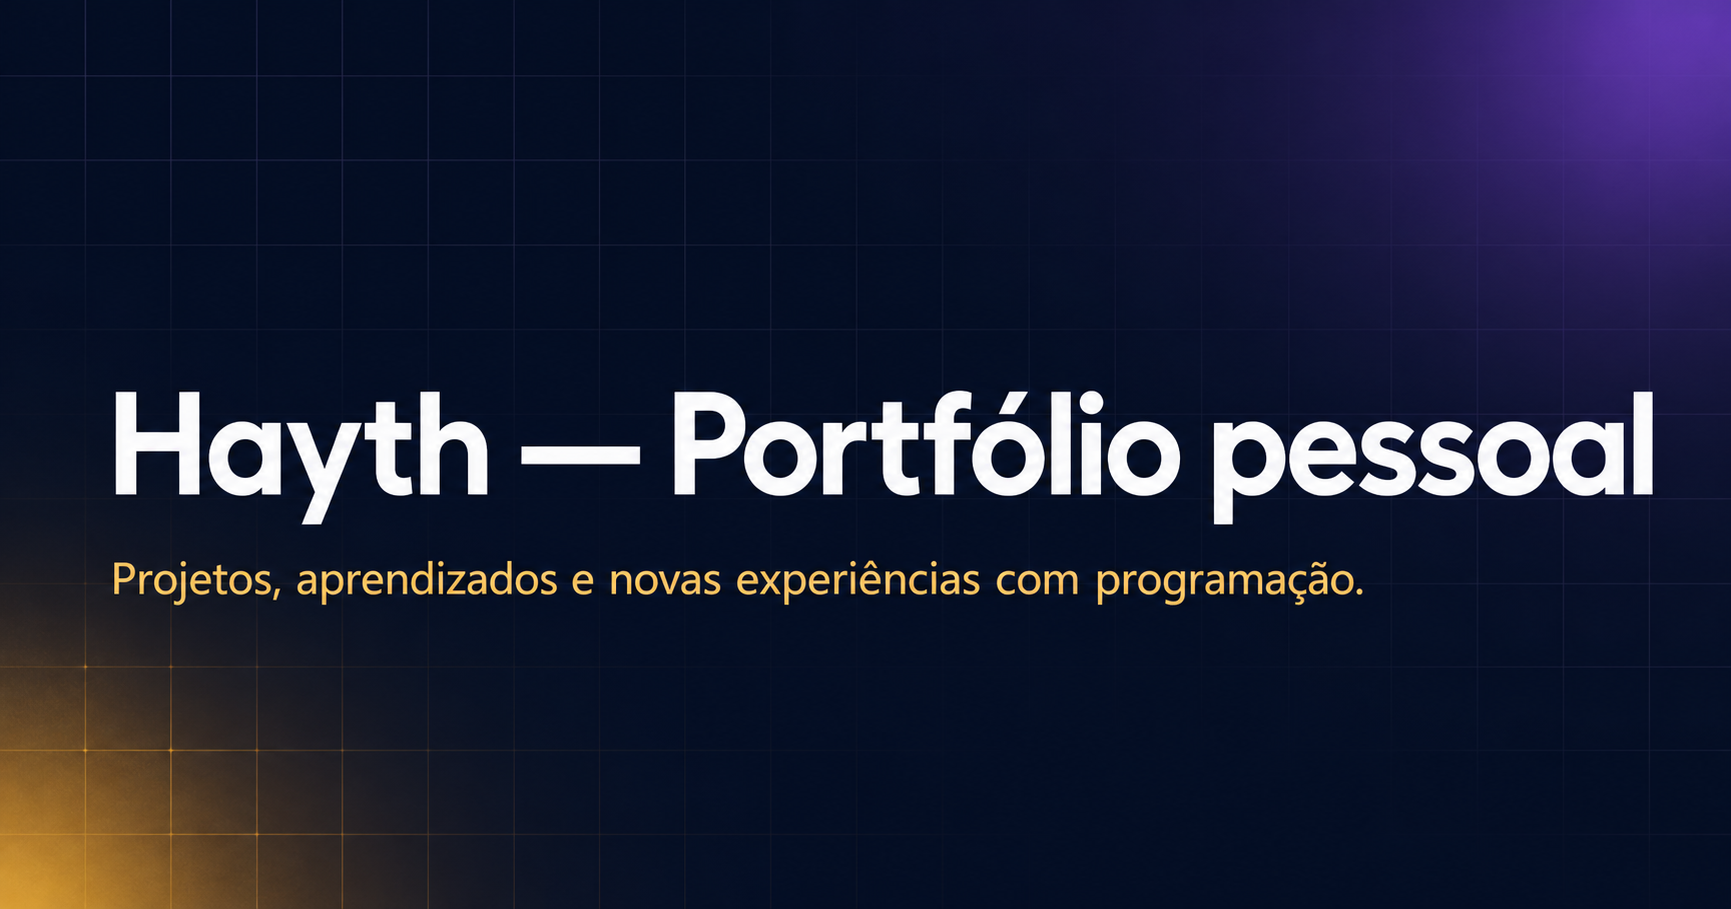
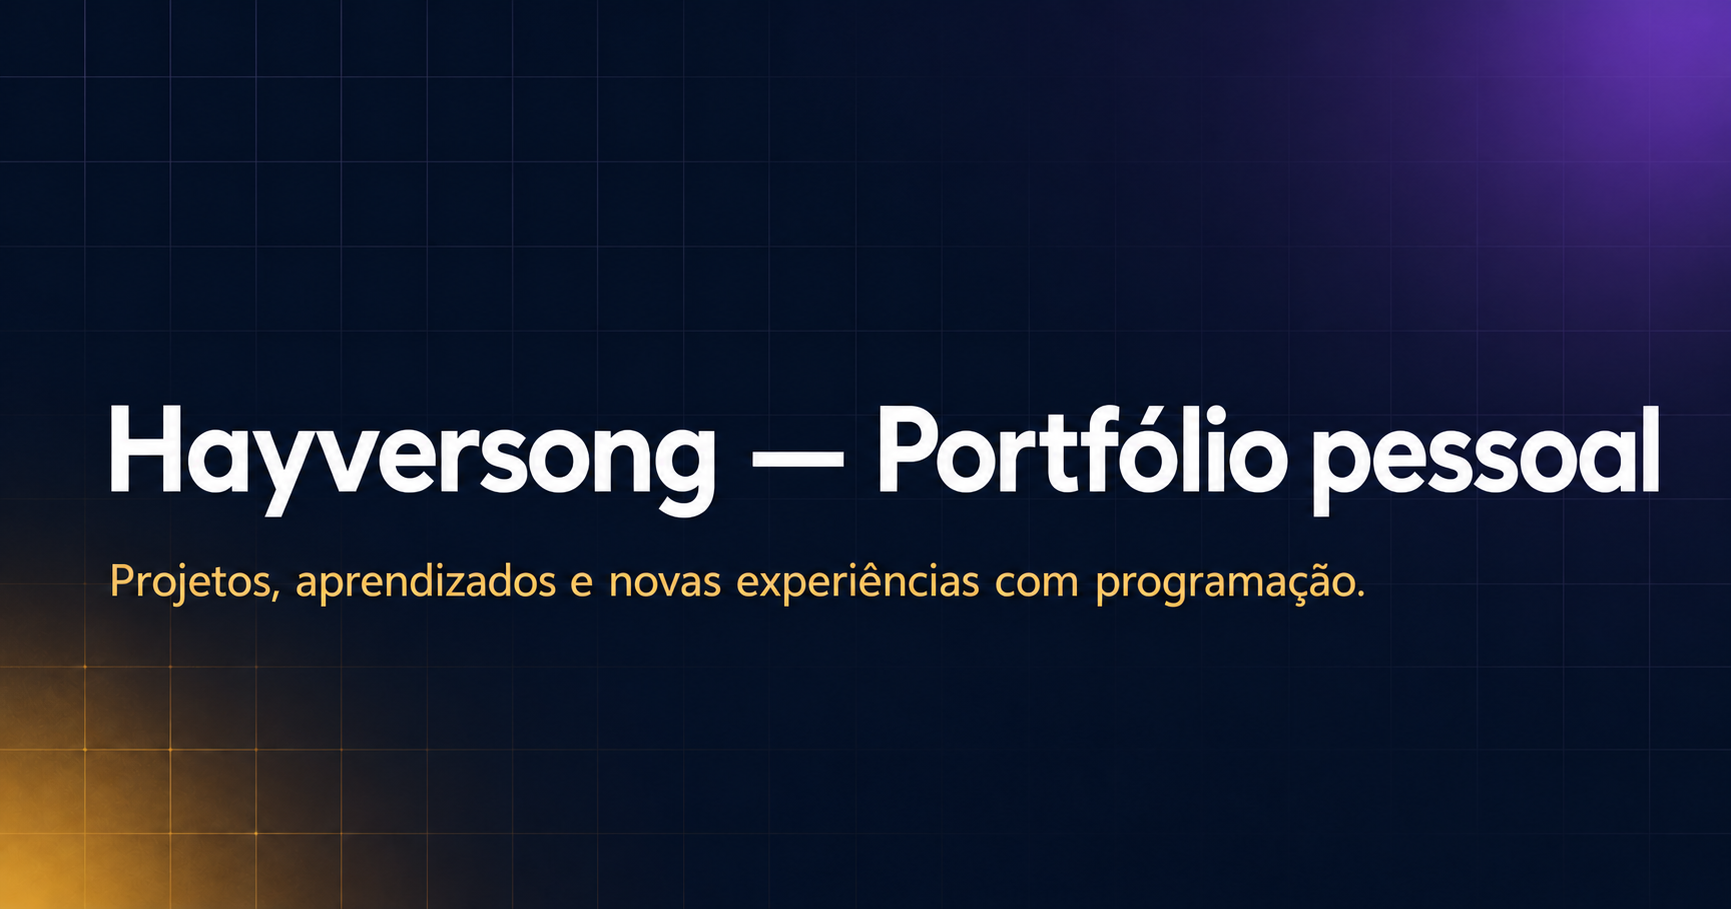
Atualiza nome na prévia social

diff --git a/app/layout.tsx b/app/layout.tsx
@@ -20,14 +20,14 @@ const siteUrl =
 
 export const metadata: Metadata = {
   metadataBase: new URL(siteUrl),
-  title: 'Hayverson | Desenvolvedor em formação',
+  title: 'Hayversong | Desenvolvedor em formação',
   description:
-    'Portfólio de Hayverson: projetos em Go e desenvolvimento web, decisões técnicas e aprendizados construídos na prática.',
+    'Portfólio de Hayversong: projetos em Go e desenvolvimento web, decisões técnicas e aprendizados construídos na prática.',
   alternates: {
     canonical: '/',
   },
   openGraph: {
-    title: 'Hayverson | Desenvolvedor em formação',
+    title: 'Hayversong | Desenvolvedor em formação',
     description:
       'Projetos em Go e desenvolvimento web, com código e aprendizados documentados.',
     images: [{ url: '/og.png', width: 1731, height: 909 }],
@@ -36,7 +36,7 @@ export const metadata: Metadata = {
   },
   twitter: {
     card: 'summary_large_image',
-    title: 'Hayverson | Desenvolvedor em formação',
+    title: 'Hayversong | Desenvolvedor em formação',
     description:
       'Projetos em Go e desenvolvimento web, com código e aprendizados documentados.',
     images: ['/og.png'],
